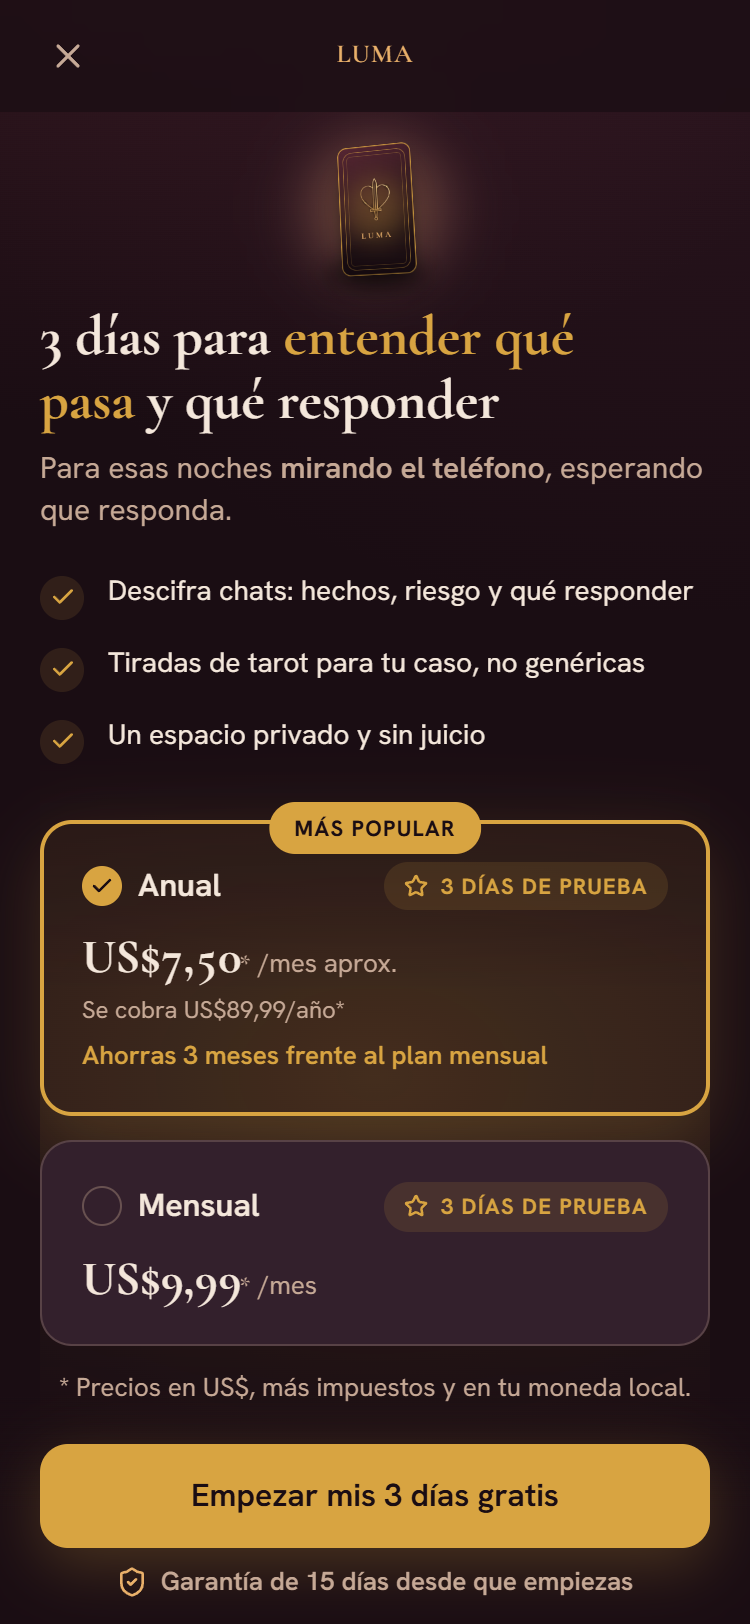
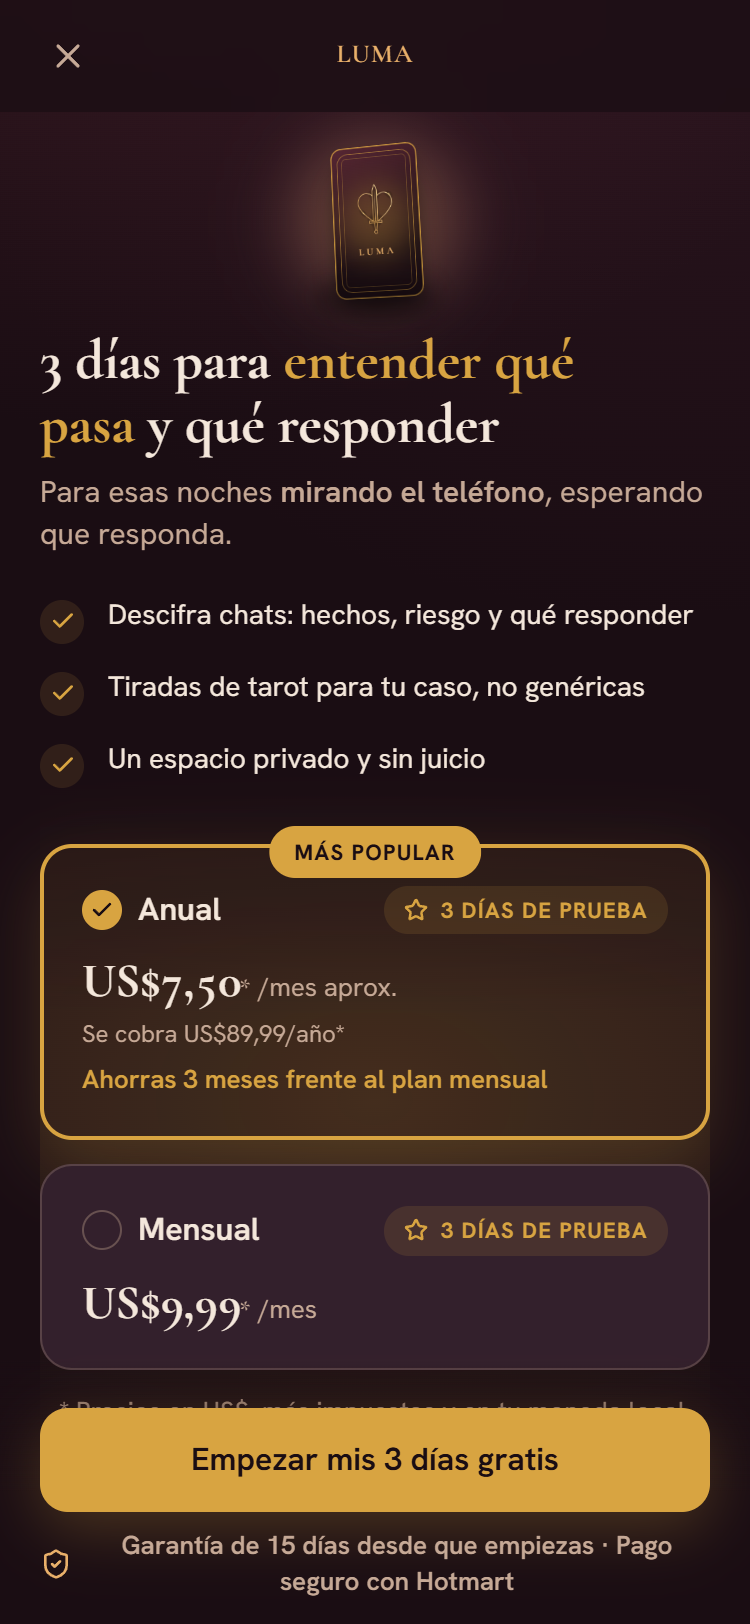
fix(planes): el precio del primer cobro cambia con transición, confianza del pago junto al botón, carta de marca algo mayor y separador con más contraste

diff --git a/app/paywall/page.tsx b/app/paywall/page.tsx
@@ -16,7 +16,7 @@
 
 import { useEffect, useLayoutEffect, useRef, useState } from 'react';
 import { motion, useReducedMotion } from 'motion/react';
-import { X, Lock, ShieldCheck } from 'lucide-react';
+import { X, ShieldCheck } from 'lucide-react';
 import { CheckCustom, Hairline } from '@/components/landing/ui';
 import { MarkedCopy } from '@/components/landing/MarkedCopy';
 import { TimelineTrial } from '@/components/paywall/Timeline';
@@ -132,7 +132,7 @@ export default function PaywallLuma() {
           transition={{ duration: reduce ? 0.2 : 0.4, ease: [0.16, 1, 0.3, 1] }}
           className="flex justify-center"
         >
-          <div className="h-[72px] scale-[0.34] [transform-origin:top]">
+          <div className="h-[84px] scale-[0.4] [transform-origin:top]">
             <CartaSacerdotisa animar={false} />
           </div>
         </motion.div>
@@ -240,7 +240,7 @@ export default function PaywallLuma() {
             >
               Ahora no
             </a>
-            <span aria-hidden="true" className="text-[var(--text-tertiary)]">
+            <span aria-hidden="true" className="text-[var(--text-secondary)]">
               ·
             </span>
             {/* Más peso que "Ahora no": recuperar una compra ya hecha no es lo
@@ -253,12 +253,6 @@ export default function PaywallLuma() {
             </a>
           </div>
 
-          <p className="mt-3 flex flex-wrap items-center justify-center gap-x-4 gap-y-1 text-[13px] text-[var(--text-secondary)]">
-            <span className="flex items-center gap-1.5 whitespace-nowrap">
-              <Lock size={14} aria-hidden="true" />
-              Pago seguro con Hotmart
-            </span>
-          </p>
         </motion.div>
       </div>
 
@@ -298,7 +292,9 @@ export default function PaywallLuma() {
           )}
           <p className="mt-2 flex items-center justify-center gap-1.5 text-center text-[13px] font-semibold leading-snug text-[var(--text-secondary)]">
             <ShieldCheck size={16} aria-hidden="true" className="shrink-0 text-[var(--accent-lite)]" />
-            Garantía de 15 días desde que empiezas
+            <span>
+              Garantía de 15 días desde que empiezas <span aria-hidden="true">·</span> Pago seguro con Hotmart
+            </span>
           </p>
         </div>
       </div>

diff --git a/components/paywall/Timeline.tsx b/components/paywall/Timeline.tsx
@@ -8,13 +8,33 @@
 
 import { motion, useReducedMotion } from 'motion/react';
 
+/** El precio entra con un fundido corto cada vez que cambia (se remonta por `key`); con reduced-motion no se anima. */
+function PrecioAnimado({ texto }: { texto: string }) {
+  const reduce = useReducedMotion();
+  return (
+    <motion.span
+      key={texto}
+      className="inline-block"
+      initial={reduce ? false : { opacity: 0, y: 6 }}
+      animate={{ opacity: 1, y: 0 }}
+      transition={{ duration: reduce ? 0 : 0.2, ease: [0.16, 1, 0.3, 1] }}
+    >
+      {texto}
+    </motion.span>
+  );
+}
+
 export function TimelineTrial({ diasPrueba, precioTexto }: { diasPrueba: number; precioTexto: string }) {
   const reduce = useReducedMotion();
   const nodos = [
     { estado: 'hecho' as const, titulo: 'Hoy — acceso completo', detalle: 'Todo LUMA, desde hoy' },
     // Honesto: no se promete ningún aviso por correo mientras no exista (2026-10-18). Solo lo que es cierto: no se cobra nada durante la prueba y se puede cancelar.
     { estado: 'hecho' as const, titulo: `Hasta el día ${diasPrueba} — sin cobro`, detalle: `Cancela cuando quieras: sigues con tu prueba hasta el día ${diasPrueba}` },
-    { estado: 'pendiente' as const, titulo: `Día ${diasPrueba} — 1er cobro: ${precioTexto}`, detalle: 'Si no cancelas antes' },
+    { estado: 'pendiente' as const, titulo: (
+        <>
+          Día {diasPrueba} — 1er cobro: <PrecioAnimado texto={precioTexto} />
+        </>
+      ), detalle: 'Si no cancelas antes' },
   ];
 
   return (
